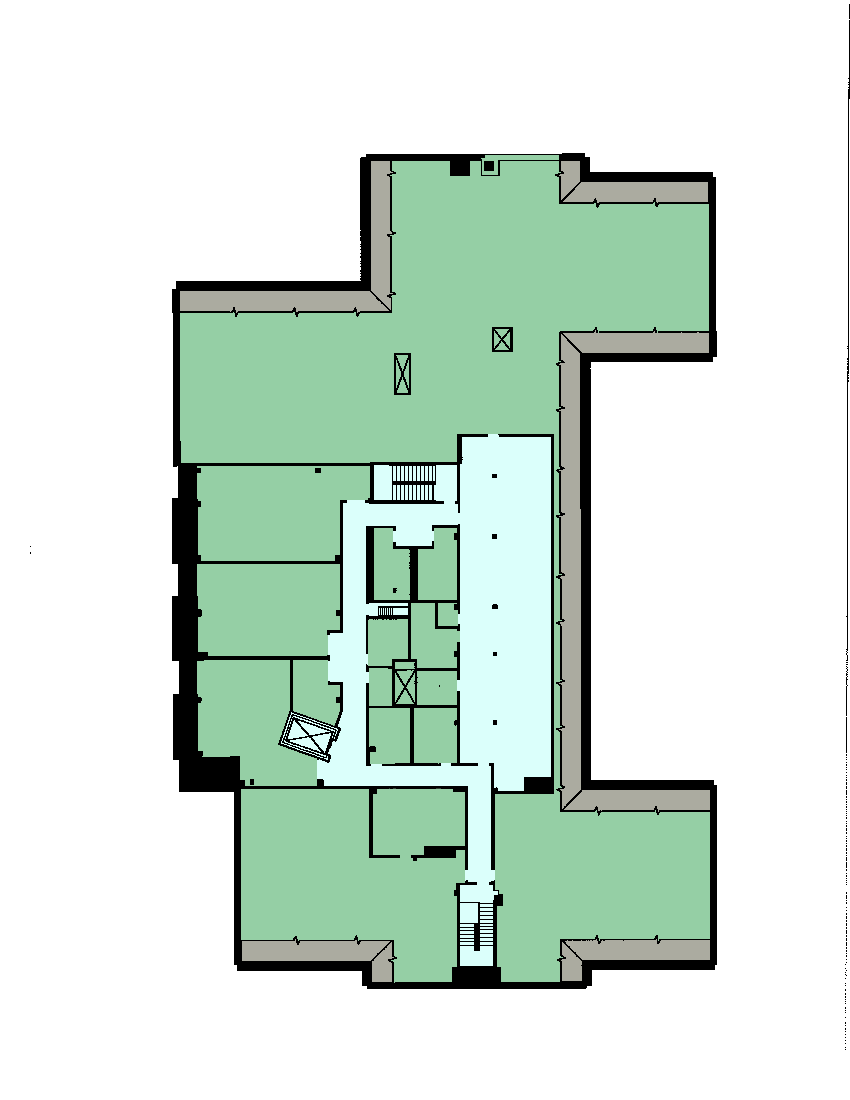
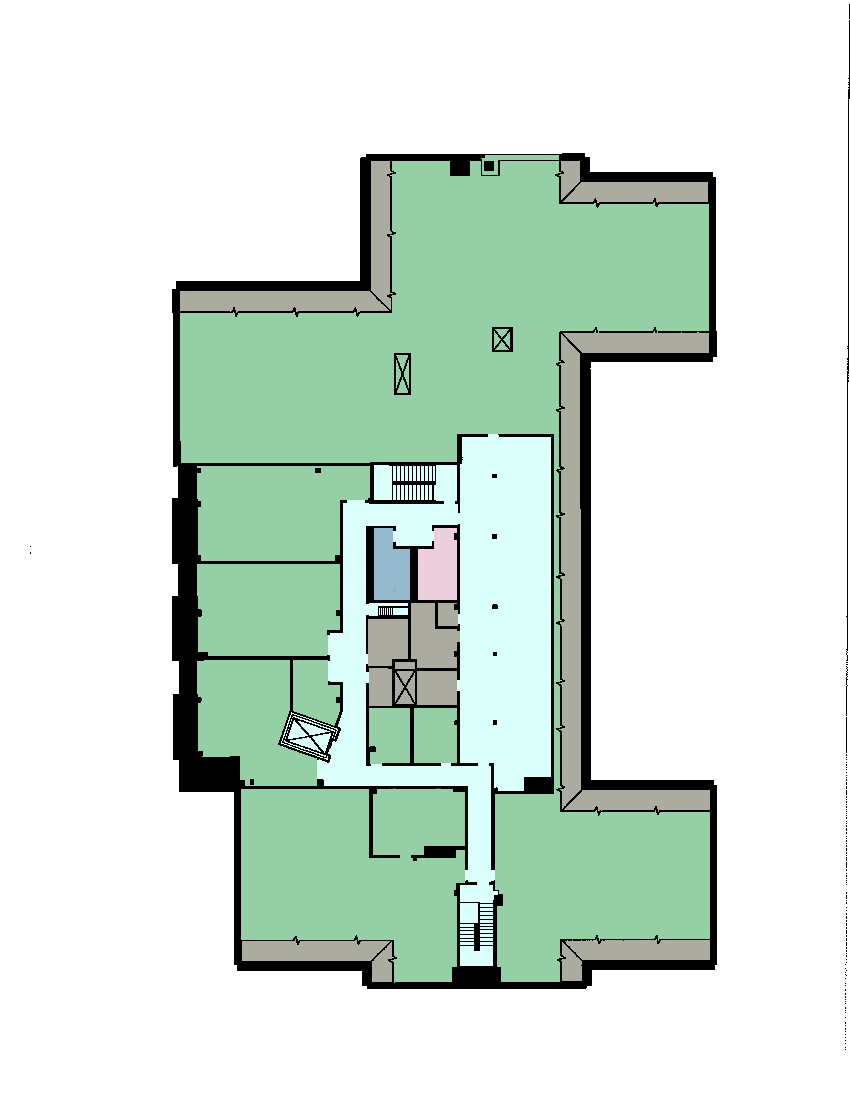
Added framework to easily add text switch for pirate mode, as well as updated maps for salisbury and higgins, and new maps for harrington

Changed region(s): [[0.4282, 0.4636, 0.5506, 0.6491]]

diff --git a/src/edu/wpi/off/by/one/errors/code/model/Path.java b/src/edu/wpi/off/by/one/errors/code/model/Path.java
@@ -1,8 +1,10 @@
 package edu.wpi.off.by.one.errors.code.model;
 
+import java.awt.List;
 import java.util.ArrayList;
 import java.util.Collections;
 import java.util.HashMap;
+import java.util.LinkedList;
 
 import edu.wpi.off.by.one.errors.code.controller.ControllerSingleton;
 
@@ -394,6 +396,7 @@ public class Path {
 		float lastangle = -10000.0f;
 		float distFromTurn = 0;
 		//float lastdist = 0.0f; TODO
+		LinkedList<Id> turnPoints = new LinkedList<Id>();
 		for(Id cur : route){
 			Node n = theGraph.returnNodeById(cur);
 			if(n == null) continue;
@@ -413,23 +416,36 @@ public class Path {
 					if(Math.abs(degreedangle) <= 20){ //determines magnitude of turn
 						distFromTurn += dist;
 					} else if(degreedangle <= 45){
-						res.add("Walk for " + Math.round(distFromTurn) + " meters");
+						if(true){
+							res.add("Walk for " + Math.round(distFromTurn) + " meters");
+						}else res.add("Walk for " + Math.round(distFromTurn) + " paces");
 						res.add("Make a slight " + (dxangle>=0 ? "right" : "left")+ " turn");
 						distFromTurn = dist;
+						turnPoints.add(cur);
 					} else if (degreedangle <= 90){
-						res.add("Walk for " + Math.round(distFromTurn) + " meters");
+						if(true){
+							res.add("Walk for " + Math.round(distFromTurn) + " meters");
+						}else res.add("Walk for " + Math.round(distFromTurn) + " paces");
 						res.add("Make a " + (dxangle>=0 ? "right" : "left")+ " turn");
 						distFromTurn = dist;
+						turnPoints.add(cur);
 					} else if (degreedangle <= 180){
-						res.add("Walk for " + Math.round(distFromTurn) + " meters");
+						if(true){
+							res.add("Walk for " + Math.round(distFromTurn) + " meters");
+						}else res.add("Walk for " + Math.round(distFromTurn) + " paces");
 						res.add("Make a hard " + (dxangle>=0 ? "right" : "left")+ " turn");
 						distFromTurn = dist;
+						turnPoints.add(cur);
 					} else {
-						res.add("Walk for " + Math.round(distFromTurn) + " meters");
+						if(true){
+							res.add("Walk for " + Math.round(distFromTurn) + " meters");
+						}else res.add("Walk for " + Math.round(distFromTurn) + " paces");
 						res.add("Make a sharp " + (dxangle>=0 ? "right" : "left")+ " turn");
 						distFromTurn = dist;
+						turnPoints.add(cur);
 					}
 				} else {
+					turnPoints.add(cur);
 					if((-45 <= angle && angle < 45)){
 						res.add("Face south");
 					} else if((45 <= angle && angle < 135)){
@@ -446,8 +462,14 @@ public class Path {
 			lastcoord = thiscoord;
 			cnt++;
 		}
-		res.add("Walk for "+ Math.round(distFromTurn) + " meters");
+		if(true){
+		res.add("Walk for " + Math.round(distFromTurn) + " meters");
 		res.add("You have reached your destination");
+		}else {
+			res.add("Walk for " + Math.round(distFromTurn) + " paces");
+			res.add("You have found the booty");
+		}
+
 		return res;
 	}
 

diff --git a/src/edu/wpi/off/by/one/errors/code/model/Map.java b/src/edu/wpi/off/by/one/errors/code/model/Map.java
@@ -14,6 +14,7 @@ public class Map {
 	private Image myimg;
 
 	private void updateImg(){
+		System.out.println("/edu/wpi/off/by/one/errors/code/resources/maps/images/" + imagePath);
 		myimg = new Image("/edu/wpi/off/by/one/errors/code/resources/maps/images/" + imagePath);
 	}
 	public void addColor(int color){
